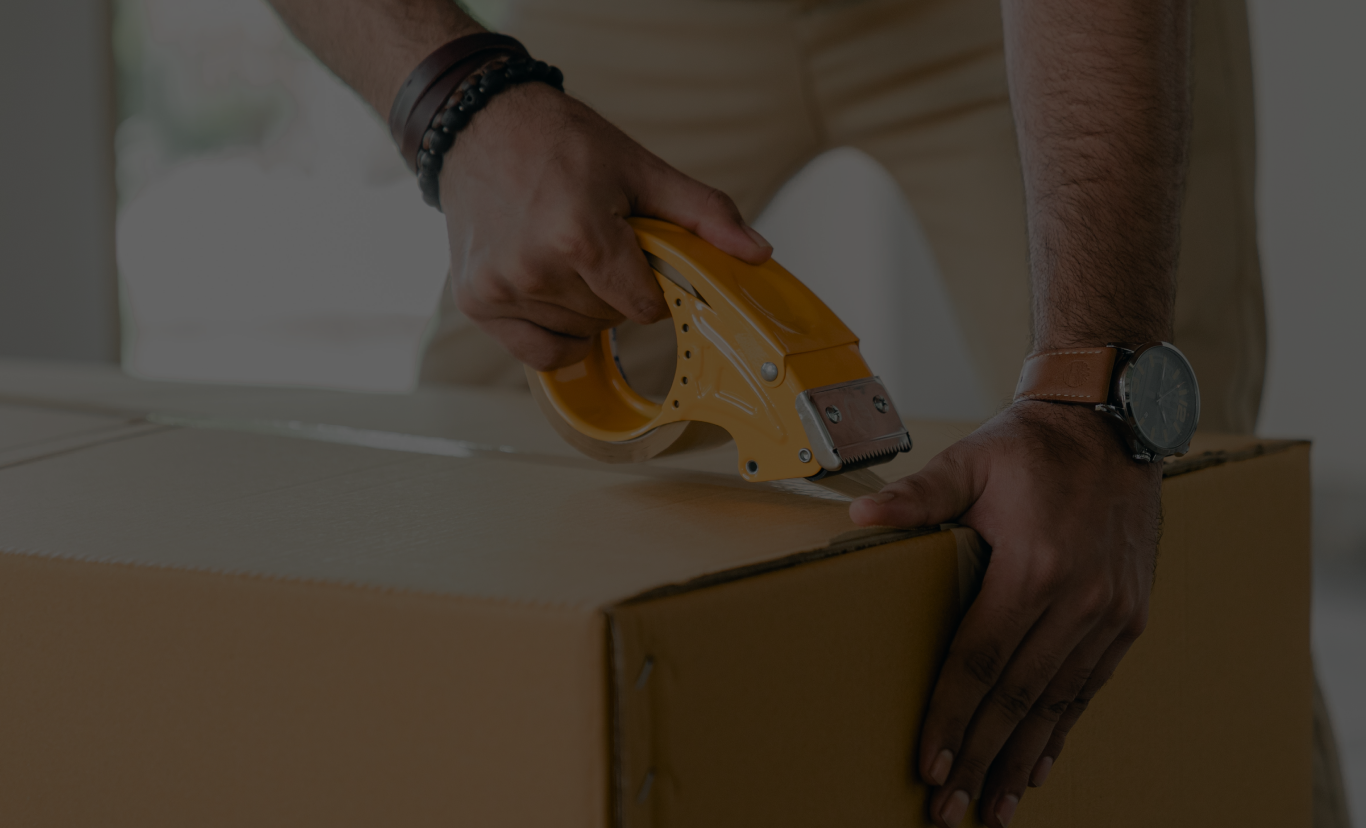
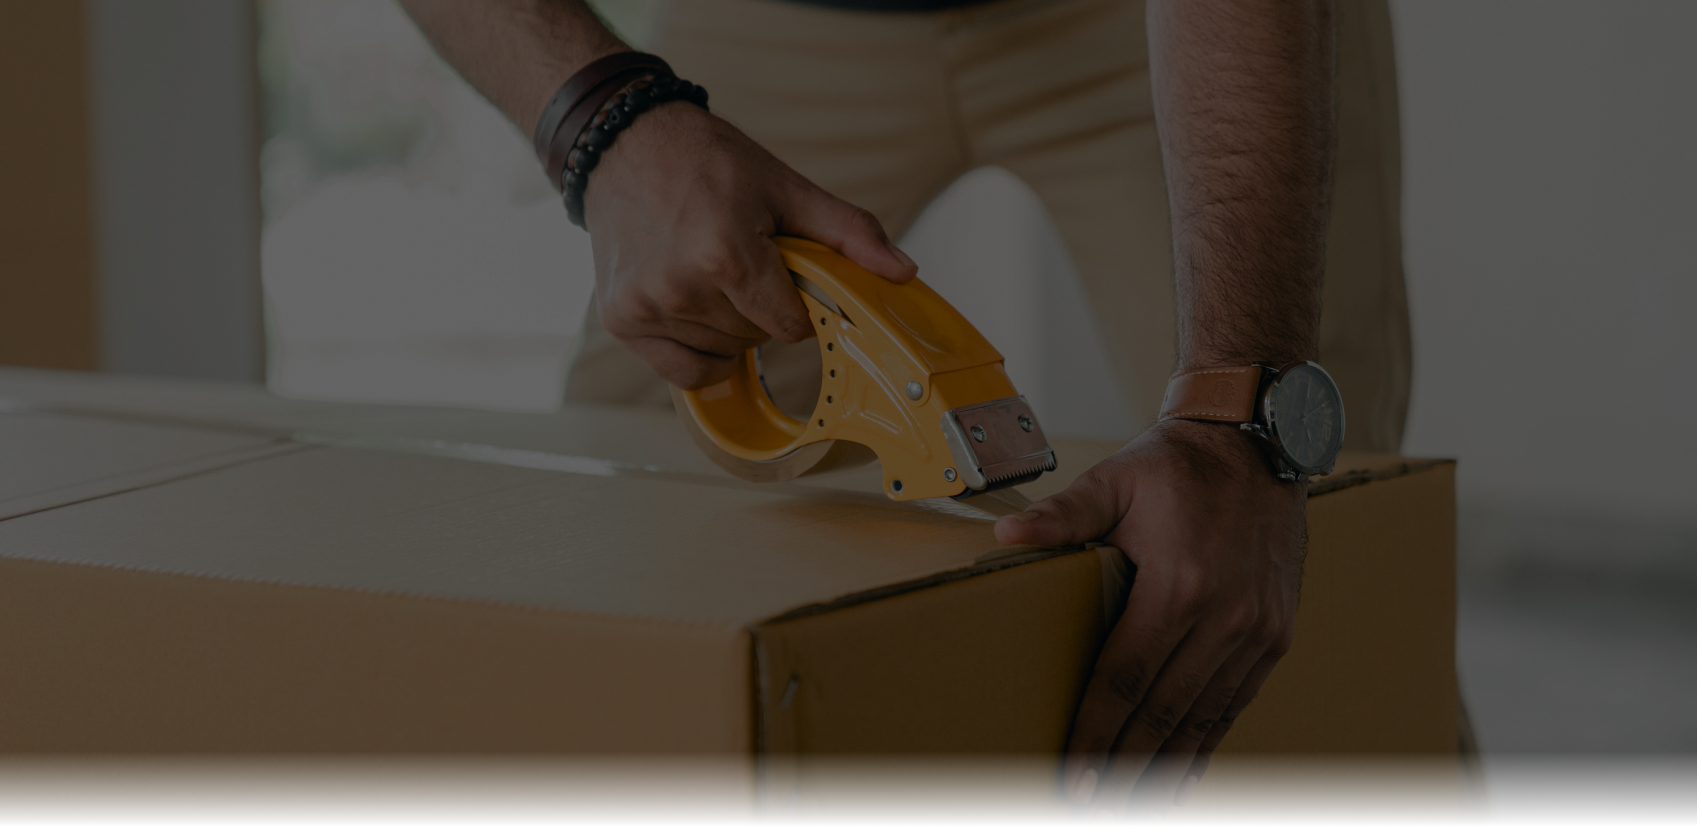
Making layout adjustments

diff --git a/src/components/Navbar/NavbarTransparent.tsx b/src/components/Navbar/NavbarTransparent.tsx
@@ -1,19 +1,20 @@
-import { AppBar, Button, makeStyles, Toolbar, Typography, Theme, IconButton, Icon} from '@material-ui/core';
+import { AppBar, Button, makeStyles, Toolbar, Typography, Theme, IconButton, Icon, styled} from '@material-ui/core';
 import useWindowDimensions from '../../utils/responsive/index'
+import { ButtonProps } from '@mui/material/Button';
 import routes, { myRouteProps } from '../../routes/index'
 import logo from '../../static/img/logo.png'
 import { Link } from 'react-router-dom';
 import { Menu } from './menu';
-
+import { yellow, grey } from '@mui/material/colors';
 
 const listRoutes: any = {
     'home' : 'Home',
     'contato' : 'Contato',
     'sobreNos' : 'Sobre nós',
+    'detalhesCaminhoes' : 'Detalhes dos caminhoes',
     'cotacao' : 'Cotação'
 }
 
-const menuRoutes = routes.filter(route => Object.keys(listRoutes).includes(route.name))
 
 type Props = {
     
@@ -30,6 +31,23 @@ const useStyles = makeStyles((theme : Theme) => ({
 export const NavbarTransparent = (props: Props) => {
     const classes = useStyles();
     let windowDimensions = useWindowDimensions();
+    let menuRoutes = routes.filter(route => Object.keys(listRoutes).includes(route.name))
+
+    const CotacaoButton = styled(Button)<ButtonProps>(({ theme }) => ({
+        backgroundColor: yellow[400],
+        '&:hover': {
+          backgroundColor: yellow[700],
+        },
+        marginLeft:"50px",
+        color: yellow[700]
+      }));
+
+    const MenuButton = styled(Button)<ButtonProps>(({ theme }) => ({
+        marginLeft:"10px",
+        '&:hover': {
+          backgroundColor: grey[500]
+        },
+      }));
 
     return (
             <div className={classes.toolbar}>
@@ -40,11 +58,19 @@ export const NavbarTransparent = (props: Props) => {
                                     const route = menuRoutes.find(route => route.name === routeName) as myRouteProps;
                                     let button = routeName == "cotacao" ?
                                     (
-                                        <Button key={key} variant="contained" component={Link} to={route.path as string} color="primary">{listRoutes[routeName]}</Button>) 
+                                        <Link style={{textDecoration:"none", color:"#ffffff "}} to={route.path as string}>
+                                            <CotacaoButton key={key} variant="contained">{listRoutes[routeName]}</CotacaoButton>
+                                        </Link>
+                                    ) 
                                     : 
                                     (
-                                        <Button key={key} component={Link} to={route.path as string} color="inherit">{listRoutes[routeName]}</Button>
+                                        <Link style={{textDecoration:"none", color:"#ffffff "}} to={route.path as string}>
+                                            <MenuButton key={key}>
+                                                {listRoutes[routeName]}
+                                            </MenuButton>
+                                        </Link>
                                     )
+                                    // component={Link} to={route.path as string}
                                     return button
                                 }                   
                             )

diff --git a/src/components/Navbar/NavbarPages.tsx b/src/components/Navbar/NavbarPages.tsx
@@ -1,21 +1,23 @@
 // @flow 
 import * as React from 'react';
-import { AppBar, Button, makeStyles, Toolbar, Typography, Theme, IconButton, Icon} from '@material-ui/core';
+import { AppBar, Button, makeStyles, Toolbar, Typography, Theme, IconButton, Icon, styled, ButtonProps} from '@material-ui/core';
 import useWindowDimensions from '../../utils/responsive/index'
 import routes, { myRouteProps } from '../../routes/index'
 import logo from '../../static/img/logo.png'
 import { Link } from 'react-router-dom';
 import { Menu } from './menu';
+import { yellow } from '@material-ui/core/colors';
 
 
 const listRoutes: any = {
     'home' : 'Home',
     'contato' : 'Contato',
     'sobreNos' : 'Sobre nós',
+    'detalhesCaminhoes' : 'Detalhes dos caminhoes',
     'cotacao' : 'Cotação'
 }
 
-const menuRoutes = routes.filter(route => Object.keys(listRoutes).includes(route.name))
+
 
 type Props = {
     
@@ -40,14 +42,26 @@ const useStyles = makeStyles((theme : Theme) => ({
 
 export const NavbarPages = (props: Props) => {
     const classes = useStyles();
+
+    const CotacaoButton = styled(Button)<ButtonProps>(({ theme }) => ({
+        backgroundColor: yellow[400],
+        '&:hover': {
+          backgroundColor: yellow[700],
+        },
+        marginLeft:"50px"
+      }));
+
     let windowDimensions = useWindowDimensions();
+    var menuRoutes = routes.filter(route => Object.keys(listRoutes).includes(route.name))
 
     return (
         <AppBar position="static">
             <Toolbar variant='dense' className={classes.toolbar}>
-                <Typography className={classes.title}>
-                    <img src={logo} alt="Carlos Transportes" className={classes.logo}/>
-                </Typography>
+                    <Typography className={classes.title}>
+                        <Link to="/">
+                            <img src={logo} alt="Carlos Transportes" className={classes.logo}/>
+                        </Link>
+                    </Typography>
 
                 <>
                     {windowDimensions.width > 910 ? 
@@ -58,7 +72,11 @@ export const NavbarPages = (props: Props) => {
                                     
                                     if(routeName == "cotacao"){
                                         return (
-                                            <Button key={key} variant="contained" component={Link} to={route.path as string} color="primary">{listRoutes[routeName]}</Button>
+                                            <Link style={{textDecoration:"none", color:"#ffffff "}} to={route.path as string}>
+                                                <CotacaoButton key={key} variant="contained">
+                                                    {listRoutes[routeName]}
+                                                </CotacaoButton>
+                                            </Link>
                                         )
                                     } 
 

diff --git a/src/App.tsx b/src/App.tsx
@@ -1,22 +1,33 @@
 import * as React from 'react';
-import logo from './logo.svg';
 import './App.css';
-import { Navbar } from './components/Navbar';
-import GoogleFonts from 'react-google-fonts';
+import { MuiThemeProvider, createMuiTheme } from '@material-ui/core';
 import { BrowserRouter } from 'react-router-dom';
 import AppRouter  from './routes/AppRouter';
-import { Box, CssBaseline } from '@material-ui/core';
+import { Box, CssBaseline} from '@material-ui/core';
+
+const theme = createMuiTheme({
+  overrides: {
+    MuiButton: {
+      label: {
+        color: "#FFFFFF"
+      },
+    },
+  },
+});
 
 const App : React.FC = () => {
   return (
-    <React.Fragment>
-      <CssBaseline />
-      <BrowserRouter>
-        <Box>
-          <AppRouter/>
-        </Box>
-      </BrowserRouter>
-    </React.Fragment>
+    <MuiThemeProvider theme={theme}>
+      <React.Fragment>
+        <CssBaseline />
+        <BrowserRouter>
+          <Box>
+            <AppRouter/>
+          </Box>
+        </BrowserRouter>
+      </React.Fragment>
+    </MuiThemeProvider>
+
   );
 }
 

diff --git a/src/components/Modalities/index.tsx b/src/components/Modalities/index.tsx
@@ -1,5 +1,6 @@
 // @flow 
 import {createStyles, makeStyles, Theme} from '@material-ui/core';
+import { Link } from 'react-router-dom';
 
 type Props = {
     title : string
@@ -9,11 +10,17 @@ const useStyles = makeStyles((theme: Theme) =>
   createStyles({
     modalitie:{
       display: "inline",
-      background: "rgba(156, 156, 155, 0.53)",
+      background: "#A59720",
+      transition:"0.5s",
+      '&:hover': {
+        background: "#F5E233",
+      },
+      cursor:"pointer",
       padding:"8px",
+      borderRadius:"8px",
       fontSize:"48px",
       color: "#FFFFFF",
-      fontWeight: "normal"
+      fontWeight: "normal",
     },
     container:{
       marginBottom: "10px"
@@ -27,7 +34,8 @@ const Modalities = (props: Props) => {
     return (
       <div className={classes.container}>
         <div className={classes.modalitie}>
-          {props.title}
+          
+          <Link style={{textDecoration:"none", color:"#ffffff "}} to="/cotacao">{props.title}</Link>
         </div>
       </div>
     );

diff --git a/src/pages/home/index.tsx b/src/pages/home/index.tsx
@@ -4,15 +4,9 @@ import { Box, makeStyles, Typography, Theme, Container } from '@material-ui/core
 import Principles from '../../components/Principles';
 import Modalities from '../../components/Modalities';
 import LogoHome from '../../components/LogoHome';
-import backgroundHomeExtraBig from '../../static/img/backgroundHome5K.jpg'
-import backgroundHomeBig from '../../static/img/backgroundHomeBig.jpg'
-import backgroundHomeMedium from '../../static/img/backgroundHomeMedium.jpg'
-import backgroundHomeSmall from '../../static/img/backgroundHomeSmall.jpg'
-
-import useWindowDimensions from '../../utils/responsive/index'
+import backgroundHomeBig from '../../static/img/backgroundHome.png'
 import WhoIAm from '../../components/WhoIAm';
 import Feedback from '../../components/Feedback';
-import { isAbsolute } from 'path';
 
 interface PageFormProps {
     

diff --git a/src/pages/contato/index.tsx b/src/pages/contato/index.tsx
@@ -116,7 +116,7 @@ export const ContatoPage = (props: PageFormProps) => {
                             <TextField id="outlined-basic" label="Nome *" variant="outlined" className={classes.field}/>
                             <TextField id="outlined-basic" label="Email *" variant="outlined" className={classes.field}/>
                             <TextField id="outlined-basic" label="Telefone *" variant="outlined" className={classes.field}/>
-                            <TextField id="outlined-basic" label="Empresa *" variant="outlined" className={classes.field}/>
+                            <TextField id="outlined-basic" label="Empresa (opcional)" variant="outlined" className={classes.field}/>
 
                             
                             <Button variant="contained" size="large" color="primary" className={classes.buttonSubmit}>

diff --git a/src/components/Footer/index.tsx b/src/components/Footer/index.tsx
@@ -38,7 +38,7 @@ const useStyles = makeStyles((theme: Theme) =>
       marginTop:"10px"
     },
     networkContainer:{
-      marginTop:"50px"
+      marginTop:"50px",
     }
   }),
 );
@@ -53,8 +53,8 @@ const Footer = (props: Props) => {
               Visite nossas redes sociais!
             </p>
             <div className={classes.networkContainer}>
-              <img style={{marginRight:"20px"}} src={facebookLogo} alt="Facebook"/>
-              <img src={linkedInLogo} alt="LinkedIn"/>
+              <img style={{cursor: "pointer", marginRight:"12px"}} src={facebookLogo} alt="Ícone Facebook"/>
+              <img style={{cursor: "pointer"}} src={linkedInLogo} alt="Ícone LinkedIn"/>
             </div>
           </div>
 

diff --git a/src/components/Navbar/index.tsx b/src/components/Navbar/index.tsx
@@ -16,22 +16,6 @@ type Props = {
     
 };
 
-const useStyles = makeStyles((theme : Theme) => ({
-    toolbar: {
-        background: '#3F3F41',
-    },
-    title:{
-        flexGrow: 1,
-        textAlign:'left',
-    },
-    logo:{
-        paddingTop:4,
-        width: 130,
-        [theme.breakpoints.up('sm')] : {
-            width: 200
-        }
-    },
-}));
 
 
 export const Navbar : React.FC = (props: Props) => {

diff --git a/src/routes/index.tsx b/src/routes/index.tsx
@@ -26,9 +26,9 @@ const routes: myRouteProps[] = [
         component: CotacaoPage
     },
     {
-        name: 'trabalhosRealizados',
-        label: 'Trabalhos Realizados',
-        path: '/trabalhos-realizados',
+        name: 'detalhesCaminhoes',
+        label: 'Detalhes dos caminhões',
+        path: '/detalhes-caminhoes',
         exact: true,
     },
     {

diff --git a/src/components/Principles/principle.tsx b/src/components/Principles/principle.tsx
@@ -14,7 +14,11 @@ const useStyles = makeStyles((theme: Theme) =>
       boxShadow: "8px 8px 32px rgba(0, 0, 0, 0.16)",
       width:"320px",
       height: "600px",
-      margin: "20px"
+      margin: "20px",
+      transition:"0.3s",
+      '&:hover': {
+        marginTop: "-20px",
+      },
     },
     principleImage:{
         display: "flex",
